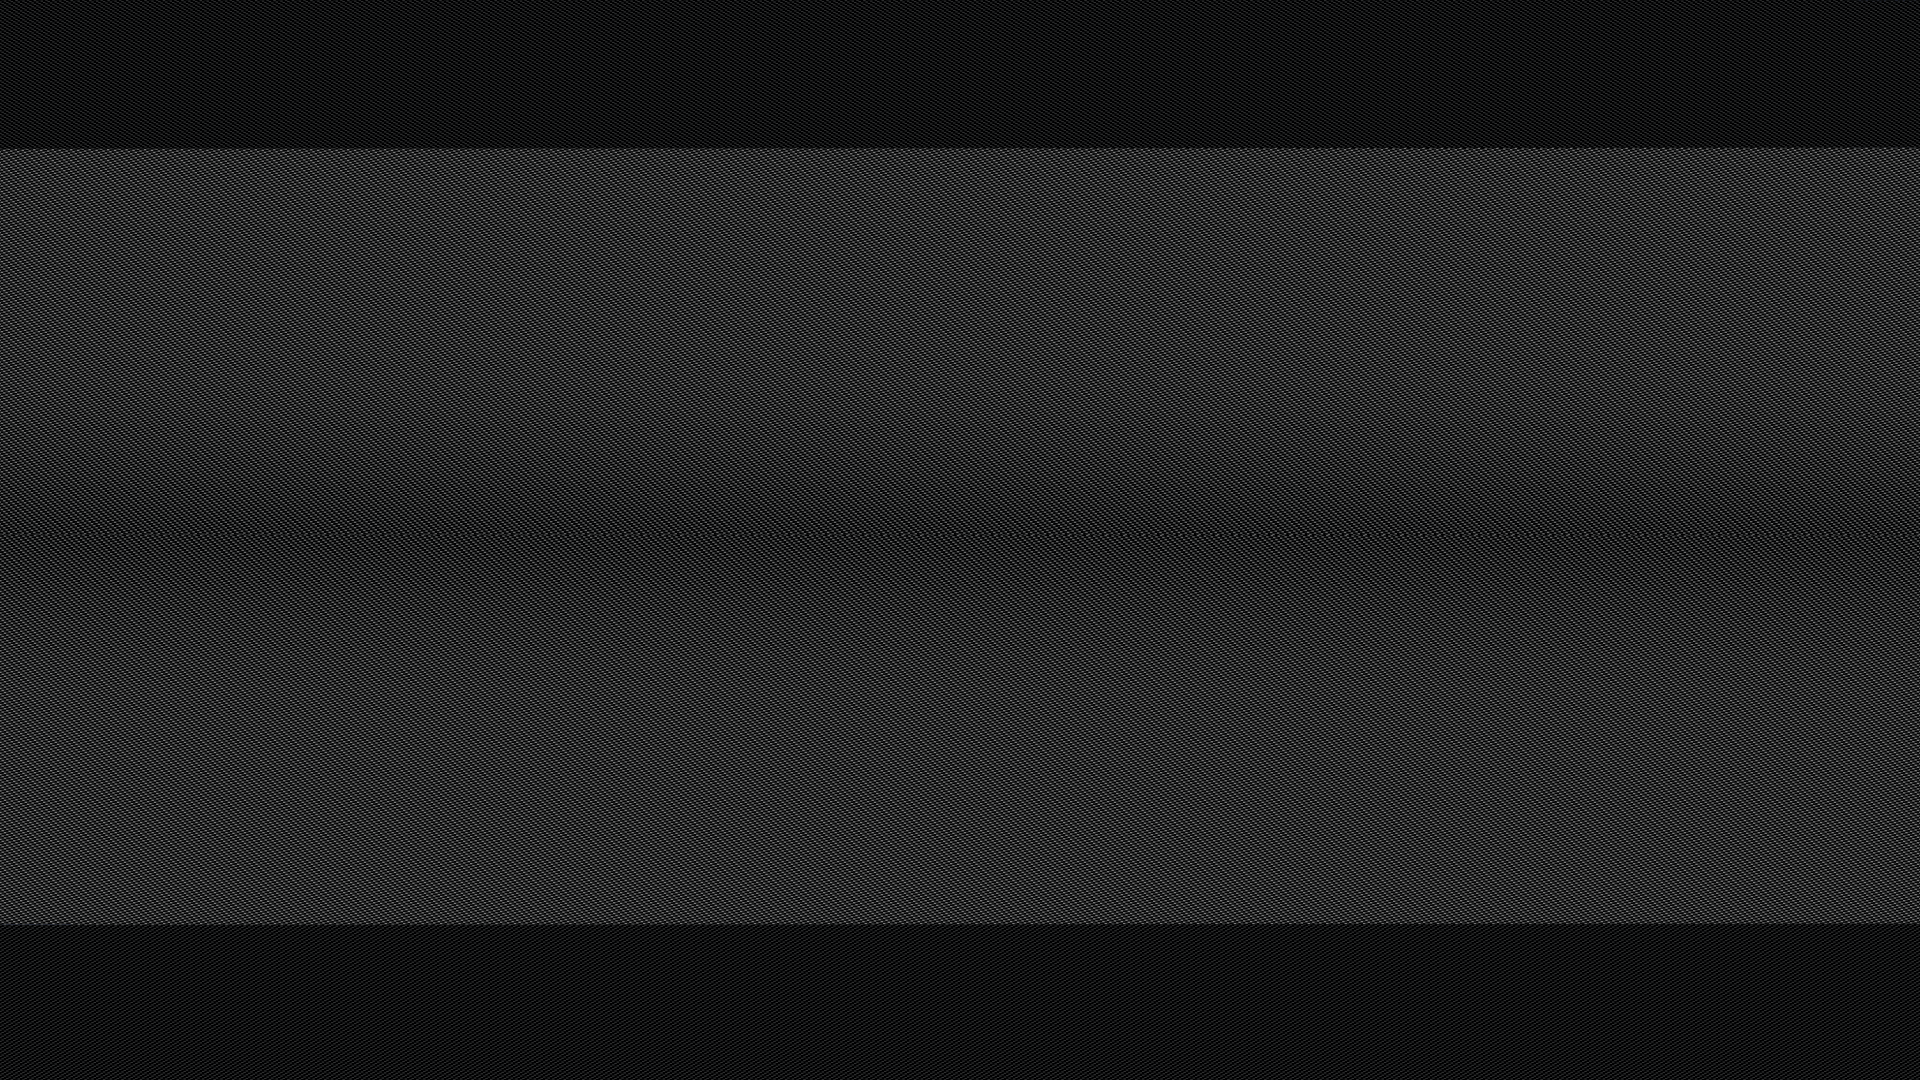
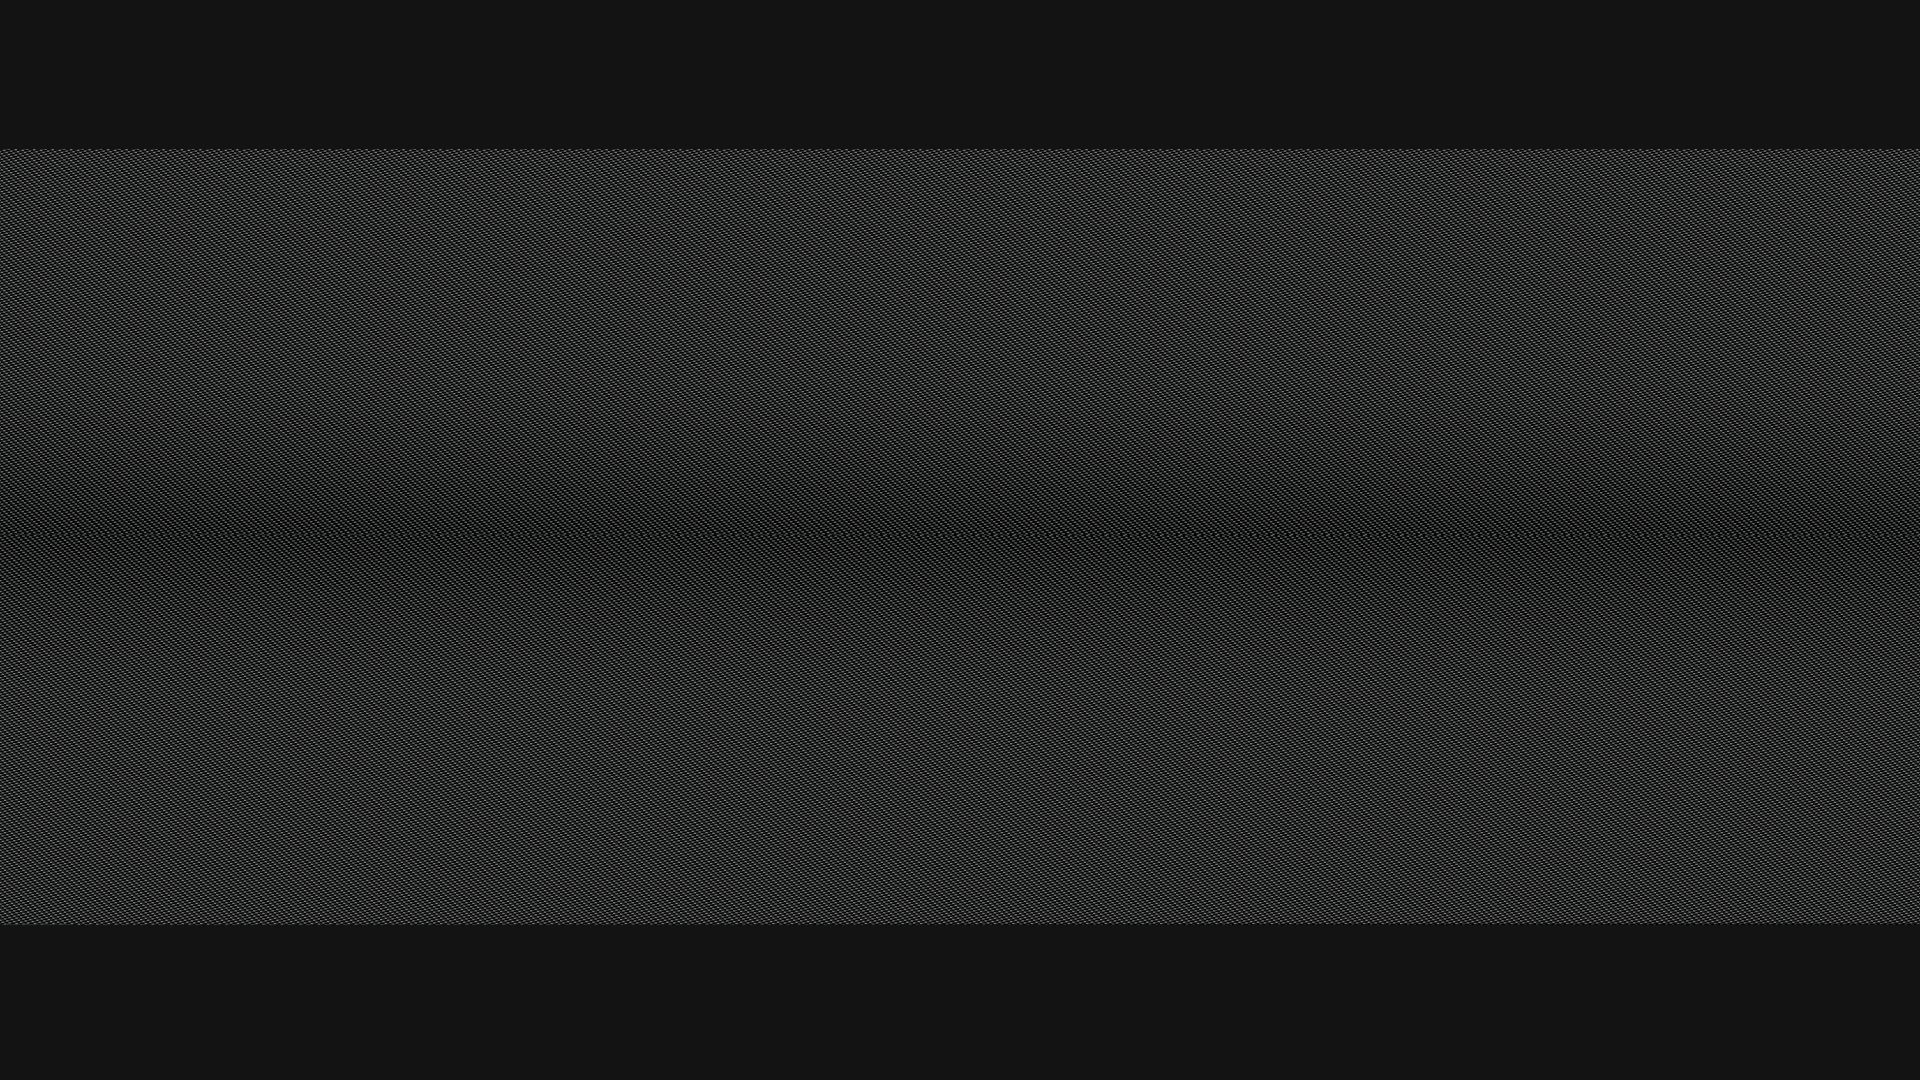
Se agregó un prototipo de pagina interior (content1).
WIP

diff --git a/js/frontpage-scripts.js b/js/frontpage-scripts.js
@@ -1,1 +1,102 @@
 // JavaScript Document
+$(document).ready(function() {
+	// executes when HTML-Document is loaded and DOM is ready
+	$("body").css("display", "none");
+});
+
+$(window).load(function() {
+	// executes when complete page is fully loaded, including all frames, objects and images
+	$("body").fadeIn(750);
+	var button_height_claro = $("img.claro").height();
+	var button_height_oscuro = $("img.oscuro").height();
+	
+	$("a.transition-up").click(function(event){
+		var clicked = $(this);
+        event.preventDefault();
+        linkLocation = this.href;
+        //$("body").fadeOut(750, redirectPage);
+		
+		$("#logo").animate({left: '5%'}, 500);
+		
+		if(clicked.hasClass('b1')){
+			$("img.b1").animate({height: button_height_claro}, 500);
+			$("img.b1").attr("src","images/boton-empresa.png");
+			
+			$("img.b2").animate({height: '19'}, 500);
+			$("img.b2").attr("src","images/boton-oscuro.png");
+			$("img.b3").animate({height: '19'}, 500);
+			$("img.b3").attr("src","images/boton-claro.png");
+			$("img.b4").animate({height: '19'}, 500);
+			$("img.b4").attr("src","images/boton-oscuro.png");
+			$("img.b5").animate({height: '19'}, 500);
+			$("img.b5").attr("src","images/boton-claro.png");
+		}
+		else if(clicked.hasClass('b2')){
+			$("img.b2").animate({height: button_height_oscuro}, 500);
+			$("img.b2").attr("src","images/boton-servicios.png");
+			
+			$("img.b1").animate({height: '19'}, 500);
+			$("img.b1").attr("src","images/boton-claro.png");
+			$("img.b3").animate({height: '19'}, 500);
+			$("img.b3").attr("src","images/boton-claro.png");
+			$("img.b4").animate({height: '19'}, 500);
+			$("img.b4").attr("src","images/boton-oscuro.png");
+			$("img.b5").animate({height: '19'}, 500);
+			$("img.b5").attr("src","images/boton-claro.png");
+		}
+		else if(clicked.hasClass('b3')){
+			$("img.b3").animate({height: button_height_claro}, 500);
+			$("img.b3").attr("src","images/boton-desarrollo.png");
+			
+			$("img.b1").animate({height: '19'}, 500);
+			$("img.b1").attr("src","images/boton-claro.png");
+			$("img.b2").animate({height: '19'}, 500);
+			$("img.b2").attr("src","images/boton-oscuro.png");
+			$("img.b4").animate({height: '19'}, 500);
+			$("img.b4").attr("src","images/boton-oscuro.png");
+			$("img.b5").animate({height: '19'}, 500);
+			$("img.b5").attr("src","images/boton-claro.png");
+		}
+		else if(clicked.hasClass('b4')){
+			$("img.b4").animate({height: button_height_oscuro}, 500);
+			$("img.b4").attr("src","images/boton-contacto.png");
+			
+			$("img.b1").animate({height: '19'}, 500);
+			$("img.b1").attr("src","images/boton-claro.png");
+			$("img.b2").animate({height: '19'}, 500);
+			$("img.b2").attr("src","images/boton-oscuro.png");
+			$("img.b3").animate({height: '19'}, 500);
+			$("img.b3").attr("src","images/boton-claro.png");
+			$("img.b5").animate({height: '19'}, 500);
+			$("img.b5").attr("src","images/boton-claro.png");
+		}
+		else if(clicked.hasClass('b5')){
+			$("img.b5").animate({height: button_height_claro}, 500);
+			$("img.b5").attr("src","images/boton-proyectos.png");
+			
+			$("img.b1").animate({height: '19'}, 500);
+			$("img.b1").attr("src","images/boton-claro.png");
+			$("img.b2").animate({height: '19'}, 500);
+			$("img.b2").attr("src","images/boton-oscuro.png");
+			$("img.b3").animate({height: '19'}, 500);
+			$("img.b3").attr("src","images/boton-claro.png");
+			$("img.b4").animate({height: '19'}, 500);
+			$("img.b4").attr("src","images/boton-oscuro.png");
+		}
+				
+		$("#main-section").animate({top: '6%'}, 500, redirectPage);
+    });
+	
+	function redirectPage() {
+        window.location = linkLocation;
+		//$("#main-section").css("top", "40%");
+    }
+
+	window.addEventListener("load", displayPage, false);
+	window.addEventListener("unload", displayPage, false);
+	
+});
+
+function displayPage() {
+	//alert("holo");
+}

diff --git a/content1.html b/content1.html
@@ -1,0 +1,45 @@
+<!DOCTYPE html>
+<html lang="es">
+    <head>
+        <meta http-equiv="Content-Type" content="text/html; charset=utf-8" />
+        <meta name="robots" content="noindex" />
+        <title>CBI</title>
+        <link rel="stylesheet" type="text/css" href="global.css" />
+        <link rel="stylesheet" type="text/css" href="css/inner-pages.css" />
+        <script type="text/javascript" src="js/jquery-1.7.1.min.js"></script>
+        <script type="text/javascript" src="js/innerpage-scripts.js"></script>
+		<noscript>
+        
+        </noscript>
+    </head>
+    <body>
+        <!--Script para detectar la resolucón del usuario.-->
+		<!--
+        <script type="text/javascript">
+			document.write(screen.width+'x'+screen.height);
+		</script>
+        -->
+		<div id="wrap">
+			<div id="content">
+            	<div id="logo">
+                	<img src="images/logo.png" width="160" height="80"/>
+                </div>
+				<div id="main-section"><a class="transition b1" href="#"><img class="claro b1" src="images/boton-empresa.png" width="196" height="143"/></a><a class="transition b2" href="#"><img class="oscuro b2" src="images/boton-oscuro.png" width="170" height="115"/></a><a class="transition b3" href="#"><img class="claro b3" src="images/boton-claro.png" width="198" height="145"/></a><a class="transition b4" href="#"><img class="oscuro b4" src="images/boton-oscuro.png" width="198" height="145"/></a><a class="transition b5" href="#"><img class="claro b5" src="images/boton-claro.png" width="198" height="145"/></a></div>
+                <div id="text-area">
+                	<div id="column1">
+                    	<p>Lorem ipsum dolor sit amet, consectetur adipisicing elit, sed do eiusmod tempor incididunt ut labore et dolore magna aliqua. Ut enim ad minim veniam, quis nostrud exercitation ullamco laboris nisi ut aliquip ex ea commodo consequat. Duis aute irure dolor in reprehenderit in voluptate velit esse cillum dolore eu fugiat nulla pariatur. Excepteur sint occaecat cupidatat non proident, sunt in culpa qui officia deserunt mollit anim id est laborum.</p>
+                    </div>                    	
+                	<div id="column2">
+                    	<p>Lorem ipsum dolor sit amet, consectetur adipisicing elit, sed do eiusmod tempor incididunt ut labore et dolore magna aliqua. Ut enim ad minim veniam, quis nostrud exercitation ullamco laboris nisi ut aliquip ex ea commodo consequat. Duis aute irure dolor in reprehenderit in voluptate velit esse cillum dolore eu fugiat nulla pariatur. Excepteur sint occaecat cupidatat non proident, sunt in culpa qui officia deserunt mollit anim id est laborum.</p>
+                    </div>
+                </div>
+                <div id="footer-line">
+            
+                </div>                
+		    	<div id="social-icons">
+					<img class="twitter" src="images/icon_tw-black.png" width="32" height="32"/><img class="facebook" src="images/icon_fb-black.png" width="32" height="32"/>
+				</div>
+			</div>
+		</div>
+    </body>
+</html>

diff --git a/construccion.html b/construccion.html
@@ -1,0 +1,39 @@
+<!DOCTYPE html>
+<html lang="es">
+    <head>
+        <meta http-equiv="Content-Type" content="text/html; charset=utf-8" />
+        <meta name="robots" content="noindex" />
+        <title>CBI</title>
+        <link rel="stylesheet" type="text/css" href="global.css" />
+        <link rel="stylesheet" type="text/css" href="css/construccion.css" />
+        <script type="text/javascript" src="js/jquery-1.7.1.min.js"></script>
+        <script type="text/javascript" src="js/frontpage-scripts.js"></script>
+		<noscript>
+        
+        </noscript>
+    </head>
+    <body>
+        <!--Script para detectar la resolucón del usuario.-->
+		<!--
+        <script type="text/javascript">
+			document.write(screen.width+'x'+screen.height);
+		</script>
+        -->
+		<div id="wrap">
+	<div id="content">
+            	<div id="logo">
+                	<img src="images/logo.png" width="160" height="80"/>
+                </div>
+                <div id="helmet">
+                	<img src="images/construction.png" width="256" height="256"/>
+                </div>
+				<div id="main-section1">
+                    <br><img class="claro b1" src="images/boton-claro.png" width="198" height="145"/><img class="oscuro b2" src="images/boton-oscuro.png" width="198" height="145"/><img class="claro b3" src="images/boton-claro.png" width="198" height="145"/><img class="oscuro b4" src="images/boton-oscuro.png" width="198" height="145"/><img class="claro b5" src="images/boton-claro.png" width="198" height="145"/></br>
+                    <p>Sitio en Construcción</p>
+                    <br><img class="claro b1" src="images/boton-claro.png" width="198" height="145"/><img class="oscuro b2" src="images/boton-oscuro.png" width="198" height="145"/><img class="claro b3" src="images/boton-claro.png" width="198" height="145"/><img class="oscuro b4" src="images/boton-oscuro.png" width="198" height="145"/><img class="claro b5" src="images/boton-claro.png" width="198" height="145"/></br>
+                </div>
+		    	<div id="social-icons"> <a href="http://twitter.com/#!/CBI_py" target="_new"><img class="twitter" src="images/icon_tw-black.png" width="32" height="32"/></a><a href="http://www.facebook.com/CBInformatica" target="_new"><img class="facebook" src="images/icon_fb-black.png" width="32" height="32"/></a>
+				</div>
+			</div>
+    </body>
+</html>

diff --git a/index.html b/index.html
@@ -23,8 +23,7 @@
             	<div id="logo">
                 	<img src="images/logo.png" width="160" height="80"/>
                 </div>
-				<div id="main-section">
-				  <img class="claro" src="images/boton-claro.png" width="198" height="145"/><img class="oscuro" src="images/boton-oscuro.png" width="198" height="145"/><img class="claro" src="images/boton-claro.png" width="198" height="145"/><img class="oscuro" src="images/boton-oscuro.png" width="198" height="145"/><img class="claro" src="images/boton-claro.png" width="198" height="145"/>
+				<div id="main-section"><a class="transition-up b1" href="content1.html"><img class="claro b1" src="images/boton-empresa.png" width="196" height="143"/></a><a class="transition-up b2" href="#"><img class="oscuro b2" src="images/boton-servicios.png" width="170" height="115"/></a><a class="transition-up b3" href="#"><img class="claro b3" src="images/boton-desarrollo.png" width="196" height="143"/></a><a class="transition-up b4" href="#"><img class="oscuro b4" src="images/boton-contacto.png" width="170" height="115"/></a><a class="transition-up b5" href="#"><img class="claro b5" src="images/boton-proyectos.png" width="196" height="143"/></a>
                 </div>
 		    	<div id="social-icons">
 					<img class="twitter" src="images/icon_tw-black.png" width="32" height="32"/><img class="facebook" src="images/icon_fb-black.png" width="32" height="32"/>

diff --git a/css/inner-pages.css b/css/inner-pages.css
@@ -1,0 +1,59 @@
+@charset "utf-8";
+/* CSS Document */
+
+#logo {
+	left: 5% !important;
+}
+
+#main-section {
+	top: 6% !important;
+}
+
+#main-section img {
+	/*height: 19px !important;*/
+}
+
+#main-section img.b1 {
+	height: auto !important;
+}
+
+#text-area {	
+	width: 50%;
+	max-height: 55%;
+	position: relative;
+	top: 15%;
+	left: 25%;
+	right: 25%;
+	
+	overflow: scroll;
+	overflow-x: hidden;
+	overflow-y: auto;
+}
+
+#column1 {
+	float: left;
+	width: 44%;
+	margin-left: 4%;
+	
+	text-align: justify;
+}
+
+#column2 {
+	float: right;
+	width: 44%;
+	margin-right: 4%;
+	
+	text-align: justify;
+}
+
+#footer-line {
+	background: #999;
+	width: 50%;
+	height: 1px;
+	
+	position: absolute;
+	bottom: 20%;
+	left: 25%;
+	right: 25%;
+}
+

diff --git a/css/construccion.css b/css/construccion.css
@@ -1,0 +1,41 @@
+@charset "utf-8";
+/* CSS Document */
+
+#main-section1 {
+	width: 100%;
+	height: 20%;
+	
+	position: absolute;
+	bottom: 40%;
+	
+	text-align: center;
+	z-index: 10;
+	
+	top: 30% !important;	
+}
+
+#main-section1 img, #main-section2 img{
+	width: 19%;
+	height: 19px !important;
+}
+
+#main-section1 p {
+	font-size: 46px;
+	position: relative;
+	left: 35%;
+	width: 60%;	
+}
+
+#helmet {
+	position: absolute;
+	width:25%;
+	top: 25%;
+	left: 5%;	
+	z-index: 15;
+}
+
+#helmet img {
+	width: 100%;
+	height: auto;	
+}
+

diff --git a/global.css b/global.css
@@ -5,8 +5,8 @@ html {
     height: 99%;
 	background-image: url(images/background.png);
 	background-size: contain;
-	background-color: #444444;
-	background-repeat: repeat;
+	background-color: #131313;
+	background-repeat: repeat-x;
 	overflow-x: hidden;
 	overflow-y: auto;
 }
@@ -17,8 +17,8 @@ body {
 	margin: 0px;
 	/*padding: 10px;*/
 	
-	font-family: "Arial", Arial, Helvetica, sans-serif;
-	font-size: 20px;
+	font-family: "Trebuchet MS", Helvetica, Arial, sans-serif;
+	font-size: 16px;
 
 	color: #FFF;
 }
